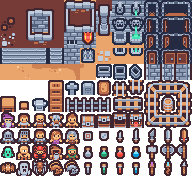
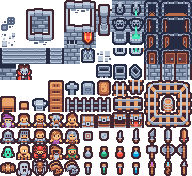
added tilemap and level

diff --git a/src/assets/dungeon.tsx b/src/assets/dungeon.tsx
@@ -1,0 +1,10 @@
+<?xml version="1.0" encoding="UTF-8"?>
+<tileset version="1.10" tiledversion="1.11.2" name="dungeon" tilewidth="16" tileheight="16" tilecount="132" columns="12">
+ <image source="level_tilemap.png" width="192" height="176"/>
+ <tile id="14">
+  <objectgroup draworder="index" id="2">
+   <object id="1" x="0" y="0" width="16" height="16"/>
+   <object id="4" x="0" y="0" width="16" height="16"/>
+  </objectgroup>
+ </tile>
+</tileset>
